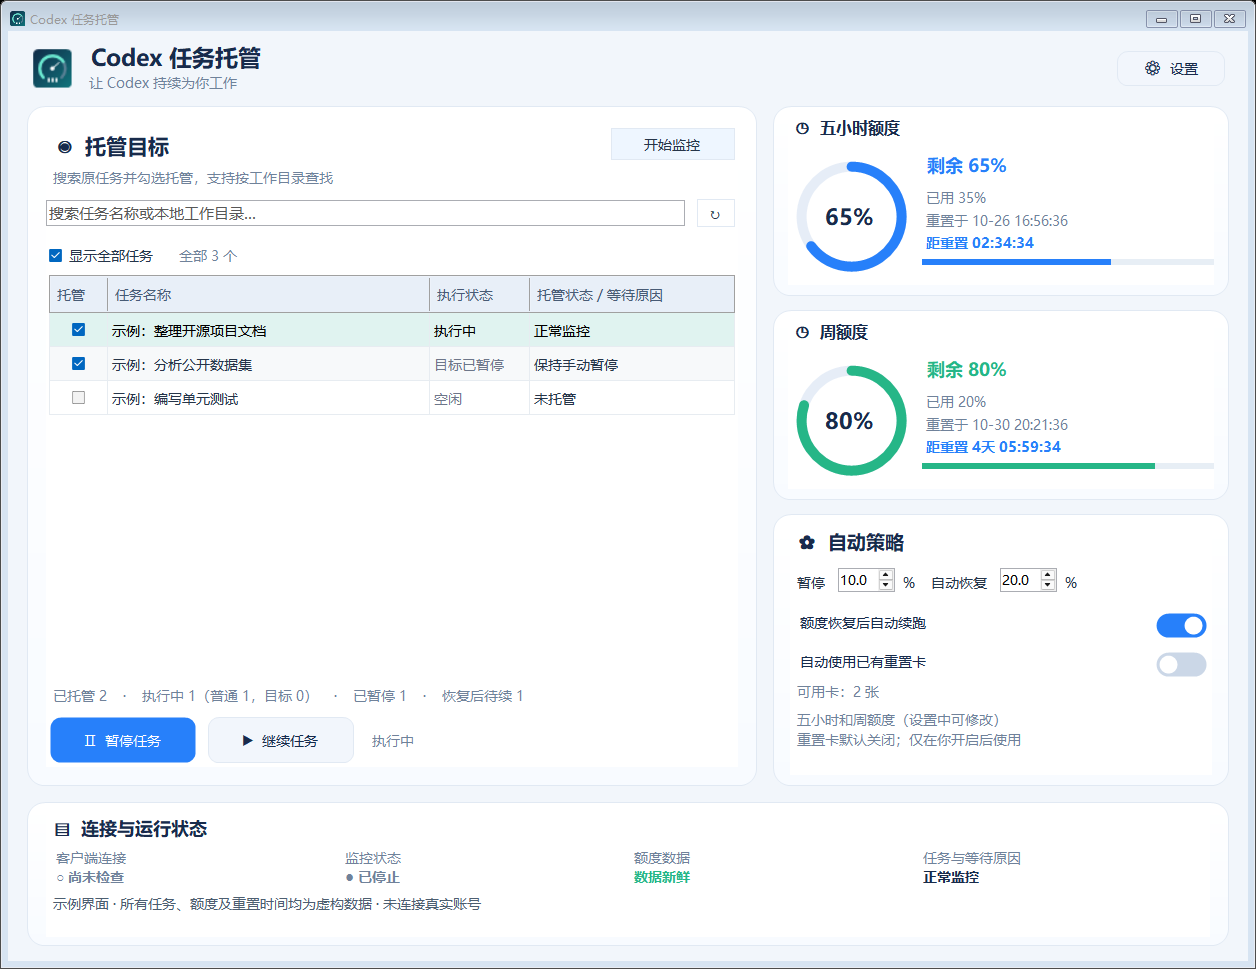
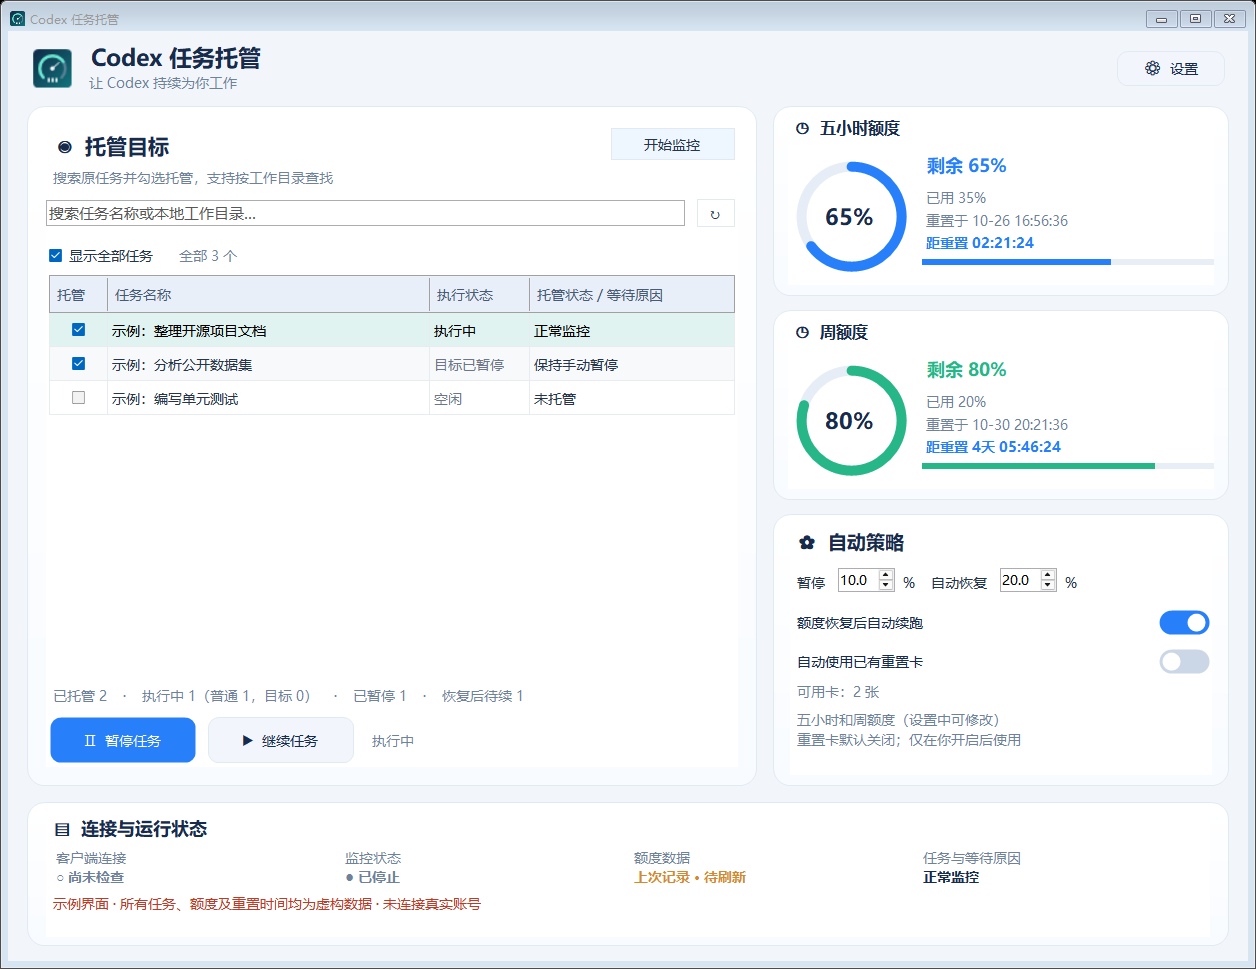
Fix clipped settings switches and reset-card input layout

diff --git a/src/QuotaMonitor.cs b/src/QuotaMonitor.cs
@@ -243,18 +243,23 @@ class MonitorWindow : Form {
         loginStart.CheckedChanged+=delegate{if(!loading){try{SetStartup(loginStart.Checked);}catch(Exception e){AppendLog("自启动设置失败："+e.Message);}}};
         chats.SelectionChanged+=delegate{UpdateStatusPanel();};
     }
-    TableLayoutPanel SwitchRow(string text,CheckBox toggle){var row=new TableLayoutPanel{Dock=DockStyle.Fill,ColumnCount=2,BackColor=Color.White};row.ColumnStyles.Add(new ColumnStyle(SizeType.Percent,100));row.ColumnStyles.Add(new ColumnStyle(SizeType.Absolute,60));row.Controls.Add(new Label{Text=text,Dock=DockStyle.Fill,TextAlign=ContentAlignment.MiddleLeft,ForeColor=Theme.Ink},0,0);toggle.Text=text;toggle.AccessibleName=text;toggle.Anchor=AnchorStyles.Right;toggle.Margin=new Padding(0,5,0,0);row.Controls.Add(toggle,1,0);return row;}
+    TableLayoutPanel SwitchRow(string text,CheckBox toggle){var row=new TableLayoutPanel{Dock=DockStyle.Fill,ColumnCount=2,RowCount=1,Margin=Padding.Empty,BackColor=Color.White};row.RowStyles.Add(new RowStyle(SizeType.Percent,100));row.ColumnStyles.Add(new ColumnStyle(SizeType.Percent,100));row.ColumnStyles.Add(new ColumnStyle(SizeType.Absolute,60));row.Controls.Add(new Label{Text=text,Dock=DockStyle.Fill,TextAlign=ContentAlignment.MiddleLeft,ForeColor=Theme.Ink},0,0);toggle.Text=text;toggle.AccessibleName=text;toggle.Anchor=AnchorStyles.Right;toggle.Margin=Padding.Empty;row.Controls.Add(toggle,1,0);return row;}
     static string BasisLabel(string basis){return basis=="fiveHour"?"仅五小时额度":basis=="weekly"?"仅周额度":"五小时和周额度";}
     void SelectQuotaBasis(string basis) {
         if(basis!="both" && basis!="fiveHour" && basis!="weekly")throw new ArgumentException("无效的额度判断依据");
         config.quotaBasis=basis;SaveAndApply();
     }
     TableLayoutPanel GeneralSwitch(string title,string detail,CheckBox toggle) {
-        var row=Rows(34,22);row.Controls.Add(SwitchRow(title,toggle),0,0);row.Controls.Add(new Label{Text=detail,Dock=DockStyle.Fill,ForeColor=Theme.Muted,Font=new Font(Font.FontFamily,9)},0,1);return row;
+        var row=new TableLayoutPanel{Dock=DockStyle.Fill,ColumnCount=2,RowCount=2,Margin=Padding.Empty,Padding=new Padding(6,4,6,4),BackColor=Color.White};
+        row.ColumnStyles.Add(new ColumnStyle(SizeType.Percent,100));row.ColumnStyles.Add(new ColumnStyle(SizeType.Absolute,64));
+        row.RowStyles.Add(new RowStyle(SizeType.Percent,50));row.RowStyles.Add(new RowStyle(SizeType.Percent,50));
+        row.Controls.Add(new Label{Text=title,Dock=DockStyle.Fill,Margin=Padding.Empty,TextAlign=ContentAlignment.MiddleLeft,ForeColor=Theme.Ink},0,0);
+        row.Controls.Add(new Label{Text=detail,Dock=DockStyle.Fill,Margin=Padding.Empty,ForeColor=Theme.Muted,TextAlign=ContentAlignment.TopLeft,Font=new Font(Font.FontFamily,9)},0,1);
+        toggle.Text=title;toggle.AccessibleName=title;toggle.Anchor=AnchorStyles.Right;toggle.Margin=Padding.Empty;row.Controls.Add(toggle,1,0);row.SetRowSpan(toggle,2);return row;
     }
     Form CreateSettingsDialog(){
-        var dialog=new Form{Text="设置",ClientSize=new Size(740,640),FormBorderStyle=FormBorderStyle.FixedDialog,MaximizeBox=false,MinimizeBox=false,StartPosition=FormStartPosition.CenterParent,Font=Font,BackColor=Color.FromArgb(245,248,253)};
-        var rows=Rows(40,26,124,64,33,56,56,44,48);rows.Padding=new Padding(24,18,24,18);rows.BackColor=dialog.BackColor;
+        var dialog=new Form{Text="设置",ClientSize=new Size(740,676),AutoScaleMode=AutoScaleMode.Dpi,FormBorderStyle=FormBorderStyle.FixedDialog,MaximizeBox=false,MinimizeBox=false,StartPosition=FormStartPosition.CenterParent,Font=Font,BackColor=Color.FromArgb(245,248,253)};
+        var rows=Rows(40,26,124,64,33,70,70,52,48);rows.Padding=new Padding(24,18,24,18);rows.BackColor=dialog.BackColor;
         rows.Controls.Add(Heading("设置",23),0,0);rows.Controls.Add(Heading("额度判断依据",12),0,1);
         var choices=new TableLayoutPanel{Dock=DockStyle.Fill,ColumnCount=3,RowCount=1,BackColor=dialog.BackColor};
         for(int i=0;i<3;i++)choices.ColumnStyles.Add(new ColumnStyle(SizeType.Percent,100f/3));
@@ -270,7 +275,7 @@ class MonitorWindow : Form {
         rows.Controls.Add(Heading("通用设置",12),0,4);
         var startup=new ToggleSwitch{Checked=File.Exists(StartupShortcut())};rows.Controls.Add(GeneralSwitch("随 Windows 启动","登录后自动启动并开始监控",startup),0,5);
         var background=new ToggleSwitch{Checked=config.trayBackgroundEnabled};rows.Controls.Add(GeneralSwitch("托盘后台运行","最小化或关闭窗口后驻留托盘；关闭此项后，关窗退出。",background),0,6);
-        var resetOptions=new FlowLayoutPanel{Dock=DockStyle.Fill};var resetInput=new NumericUpDown{Minimum=0,Maximum=99,DecimalPlaces=1,Value=(decimal)config.resetWeeklyRemainingPercent,Width=58};resetOptions.Controls.Add(Inline("重置卡触发：周剩余 ≤"));resetOptions.Controls.Add(resetInput);resetOptions.Controls.Add(Inline("%（仅在主界面开关开启时）"));rows.Controls.Add(resetOptions,0,7);
+        var resetOptions=new FlowLayoutPanel{Dock=DockStyle.Fill,Margin=Padding.Empty,Padding=new Padding(0,8,0,0),WrapContents=false};var resetInput=new NumericUpDown{Minimum=0,Maximum=99,DecimalPlaces=1,Value=(decimal)config.resetWeeklyRemainingPercent,Width=58};resetOptions.Controls.Add(Inline("重置卡触发：周剩余 ≤"));resetOptions.Controls.Add(resetInput);resetOptions.Controls.Add(Inline("%（仅在主界面开关开启时）"));rows.Controls.Add(resetOptions,0,7);
         var buttons=new FlowLayoutPanel{Dock=DockStyle.Fill};buttons.Controls.Add(MakeButton("查看完整日志",delegate{OpenLogs();}));buttons.Controls.Add(MakeButton("关闭",delegate{dialog.Close();}));rows.Controls.Add(buttons,0,8);
         startup.CheckedChanged+=delegate{loginStart.Checked=startup.Checked;};background.CheckedChanged+=delegate{config.trayBackgroundEnabled=background.Checked;WriteSettings();};resetInput.ValueChanged+=delegate{resetThreshold.Value=resetInput.Value;SaveAndApply();};dialog.Controls.Add(rows);return dialog;
     }

diff --git a/src/AssemblyInfo.cs b/src/AssemblyInfo.cs
@@ -2,6 +2,6 @@
 [assembly: AssemblyTitle("Codex Quota Monitor")]
 [assembly: AssemblyDescription("Windows Codex quota monitor with pause, recovery and earned-reset controls")]
 [assembly: AssemblyProduct("Codex Quota Monitor")]
-[assembly: AssemblyVersion("1.4.0.0")]
-[assembly: AssemblyFileVersion("1.4.0.0")]
+[assembly: AssemblyVersion("1.4.1.0")]
+[assembly: AssemblyFileVersion("1.4.1.0")]
 

diff --git a/README.md b/README.md
@@ -6,7 +6,7 @@
 
 [下载运行版](https://github.com/jiyan1989/codex-quota-manager/releases/latest) · [功能与操作](#功能与操作) · [已知问题与待验证项](docs/known-issues.md) · [使用限制](#限制)
 
-当前发布版本为 **v1.4.0**。
+当前发布版本为 **v1.4.1**。
 
 ## 软件界面
 

diff --git a/docs/known-issues.md b/docs/known-issues.md
@@ -1,6 +1,6 @@
 # 已知问题与待验证项
 
-适用版本：v1.4.0。本页不包含真实账号、聊天、运行日志或本机路径。
+适用版本：v1.4.1。本页不包含真实账号、聊天、运行日志或本机路径。
 
 ## 本版已修复
 
